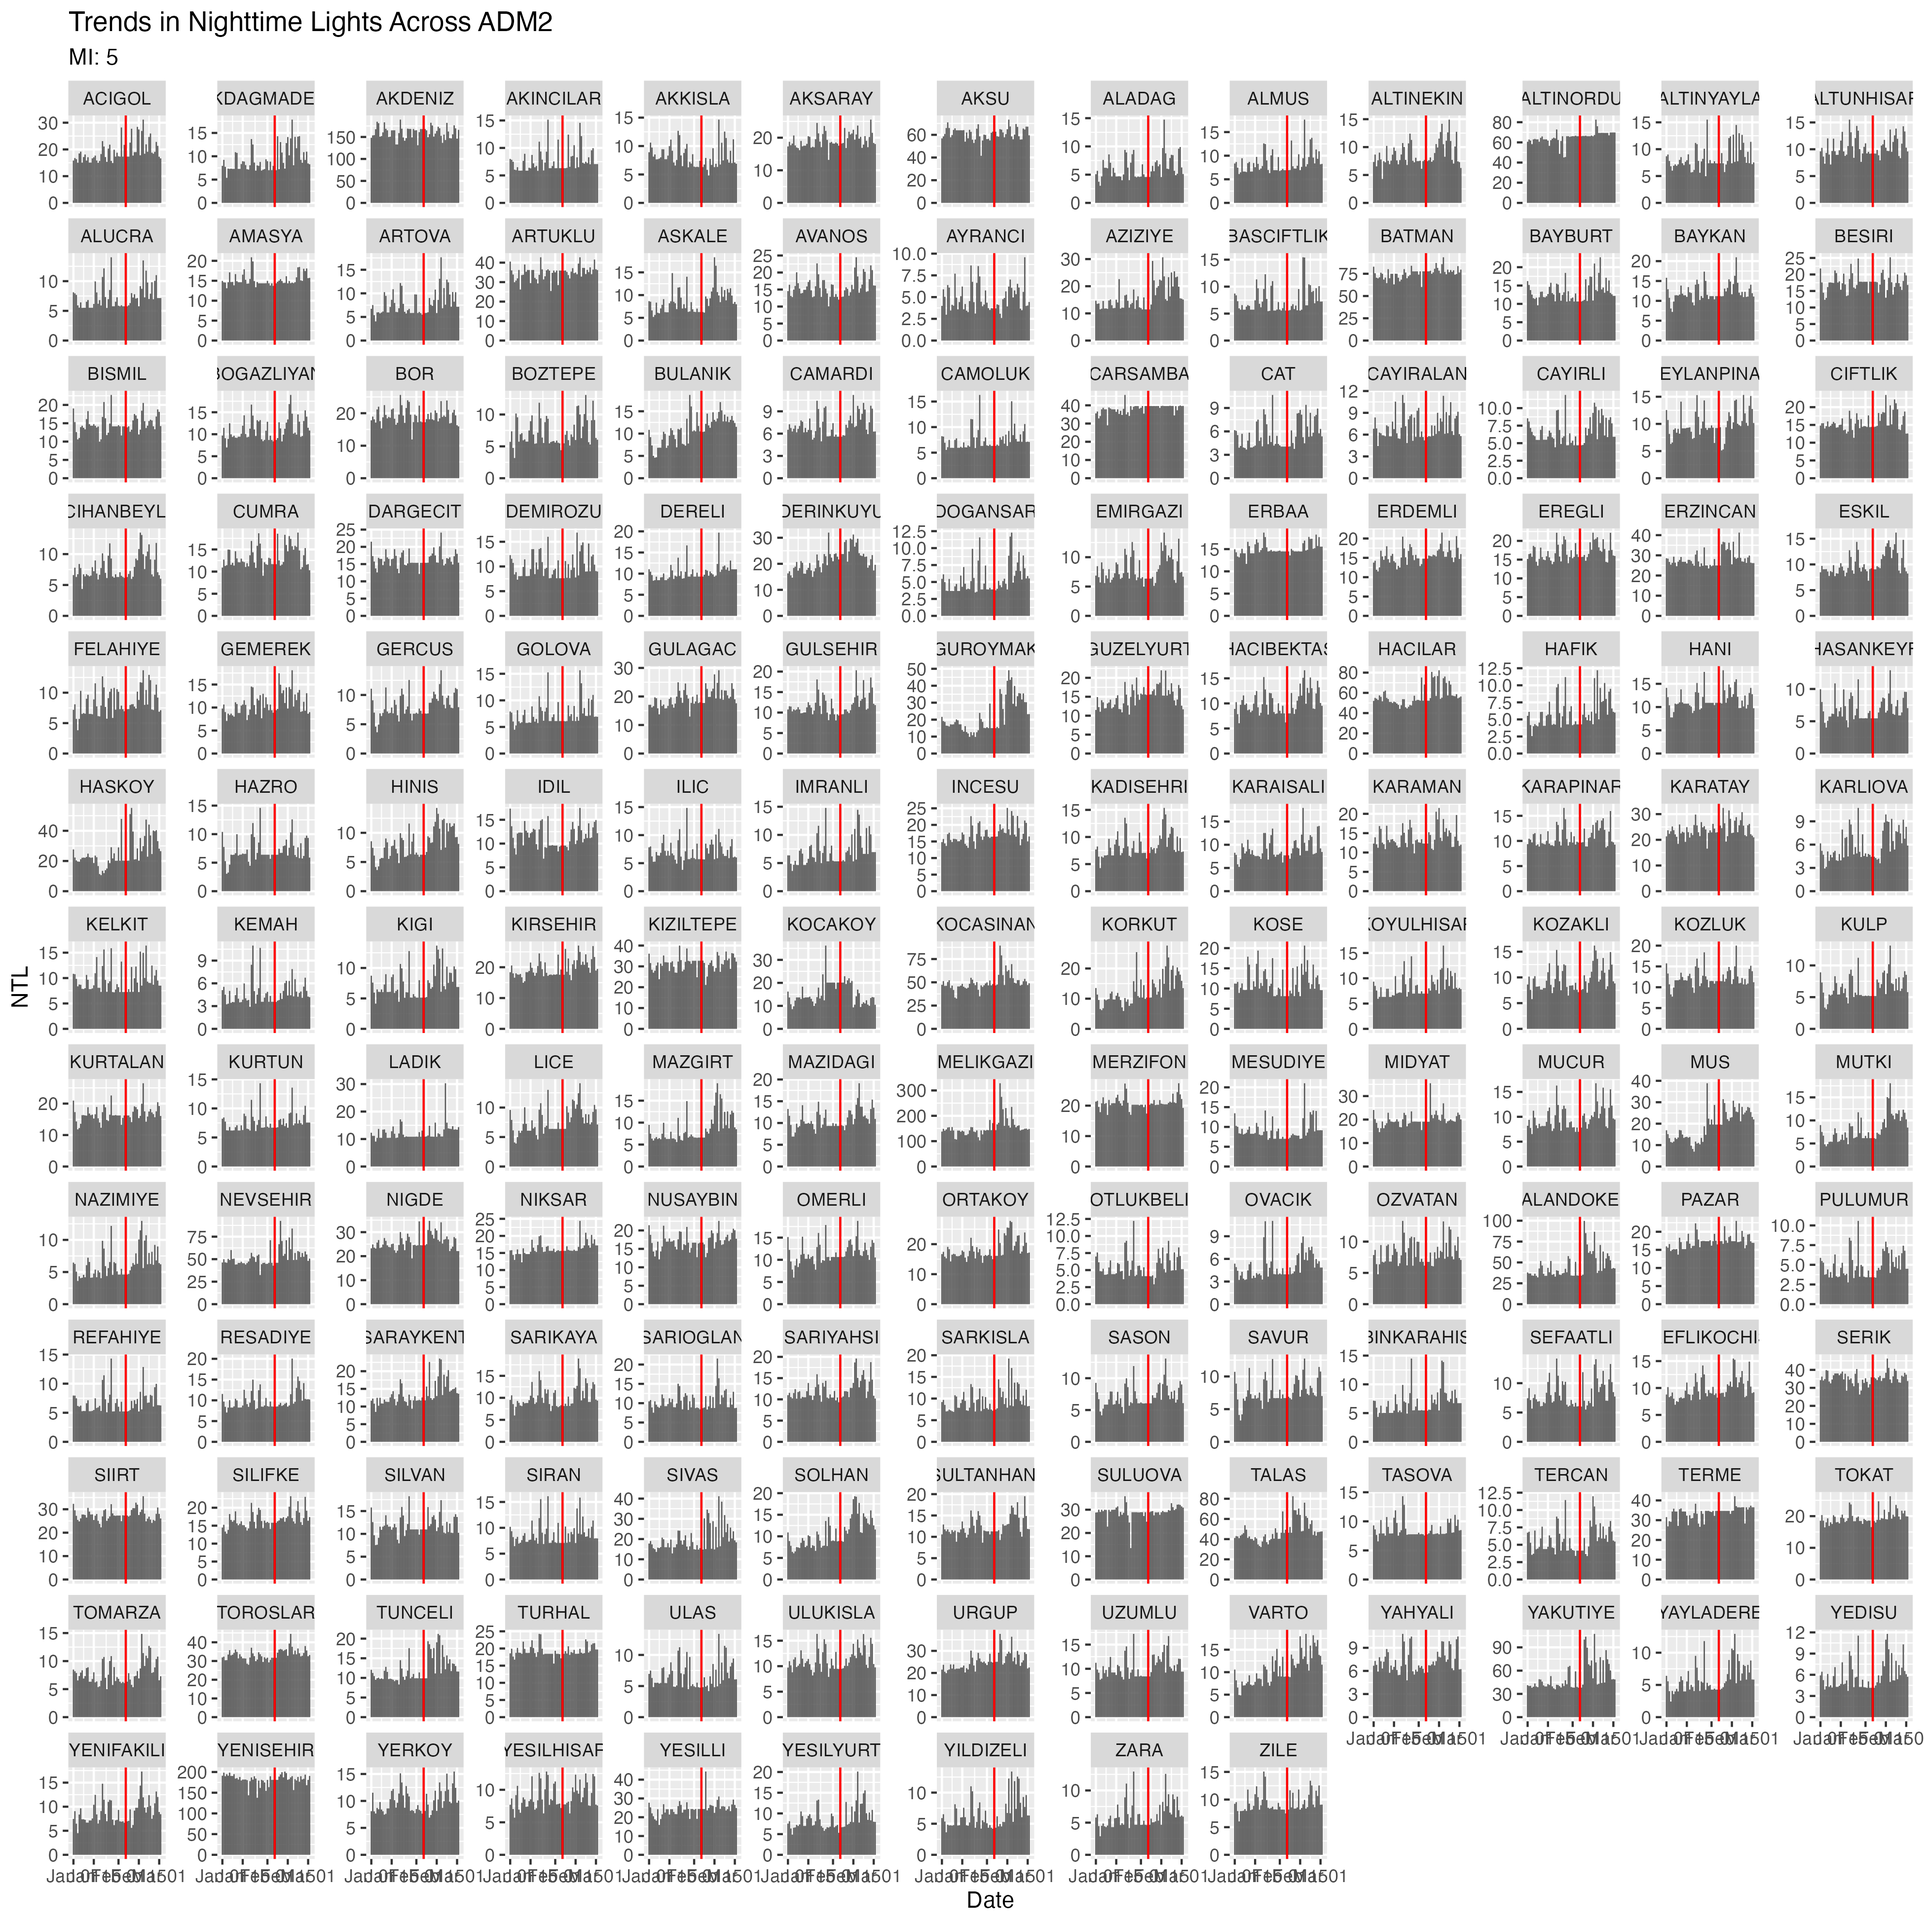
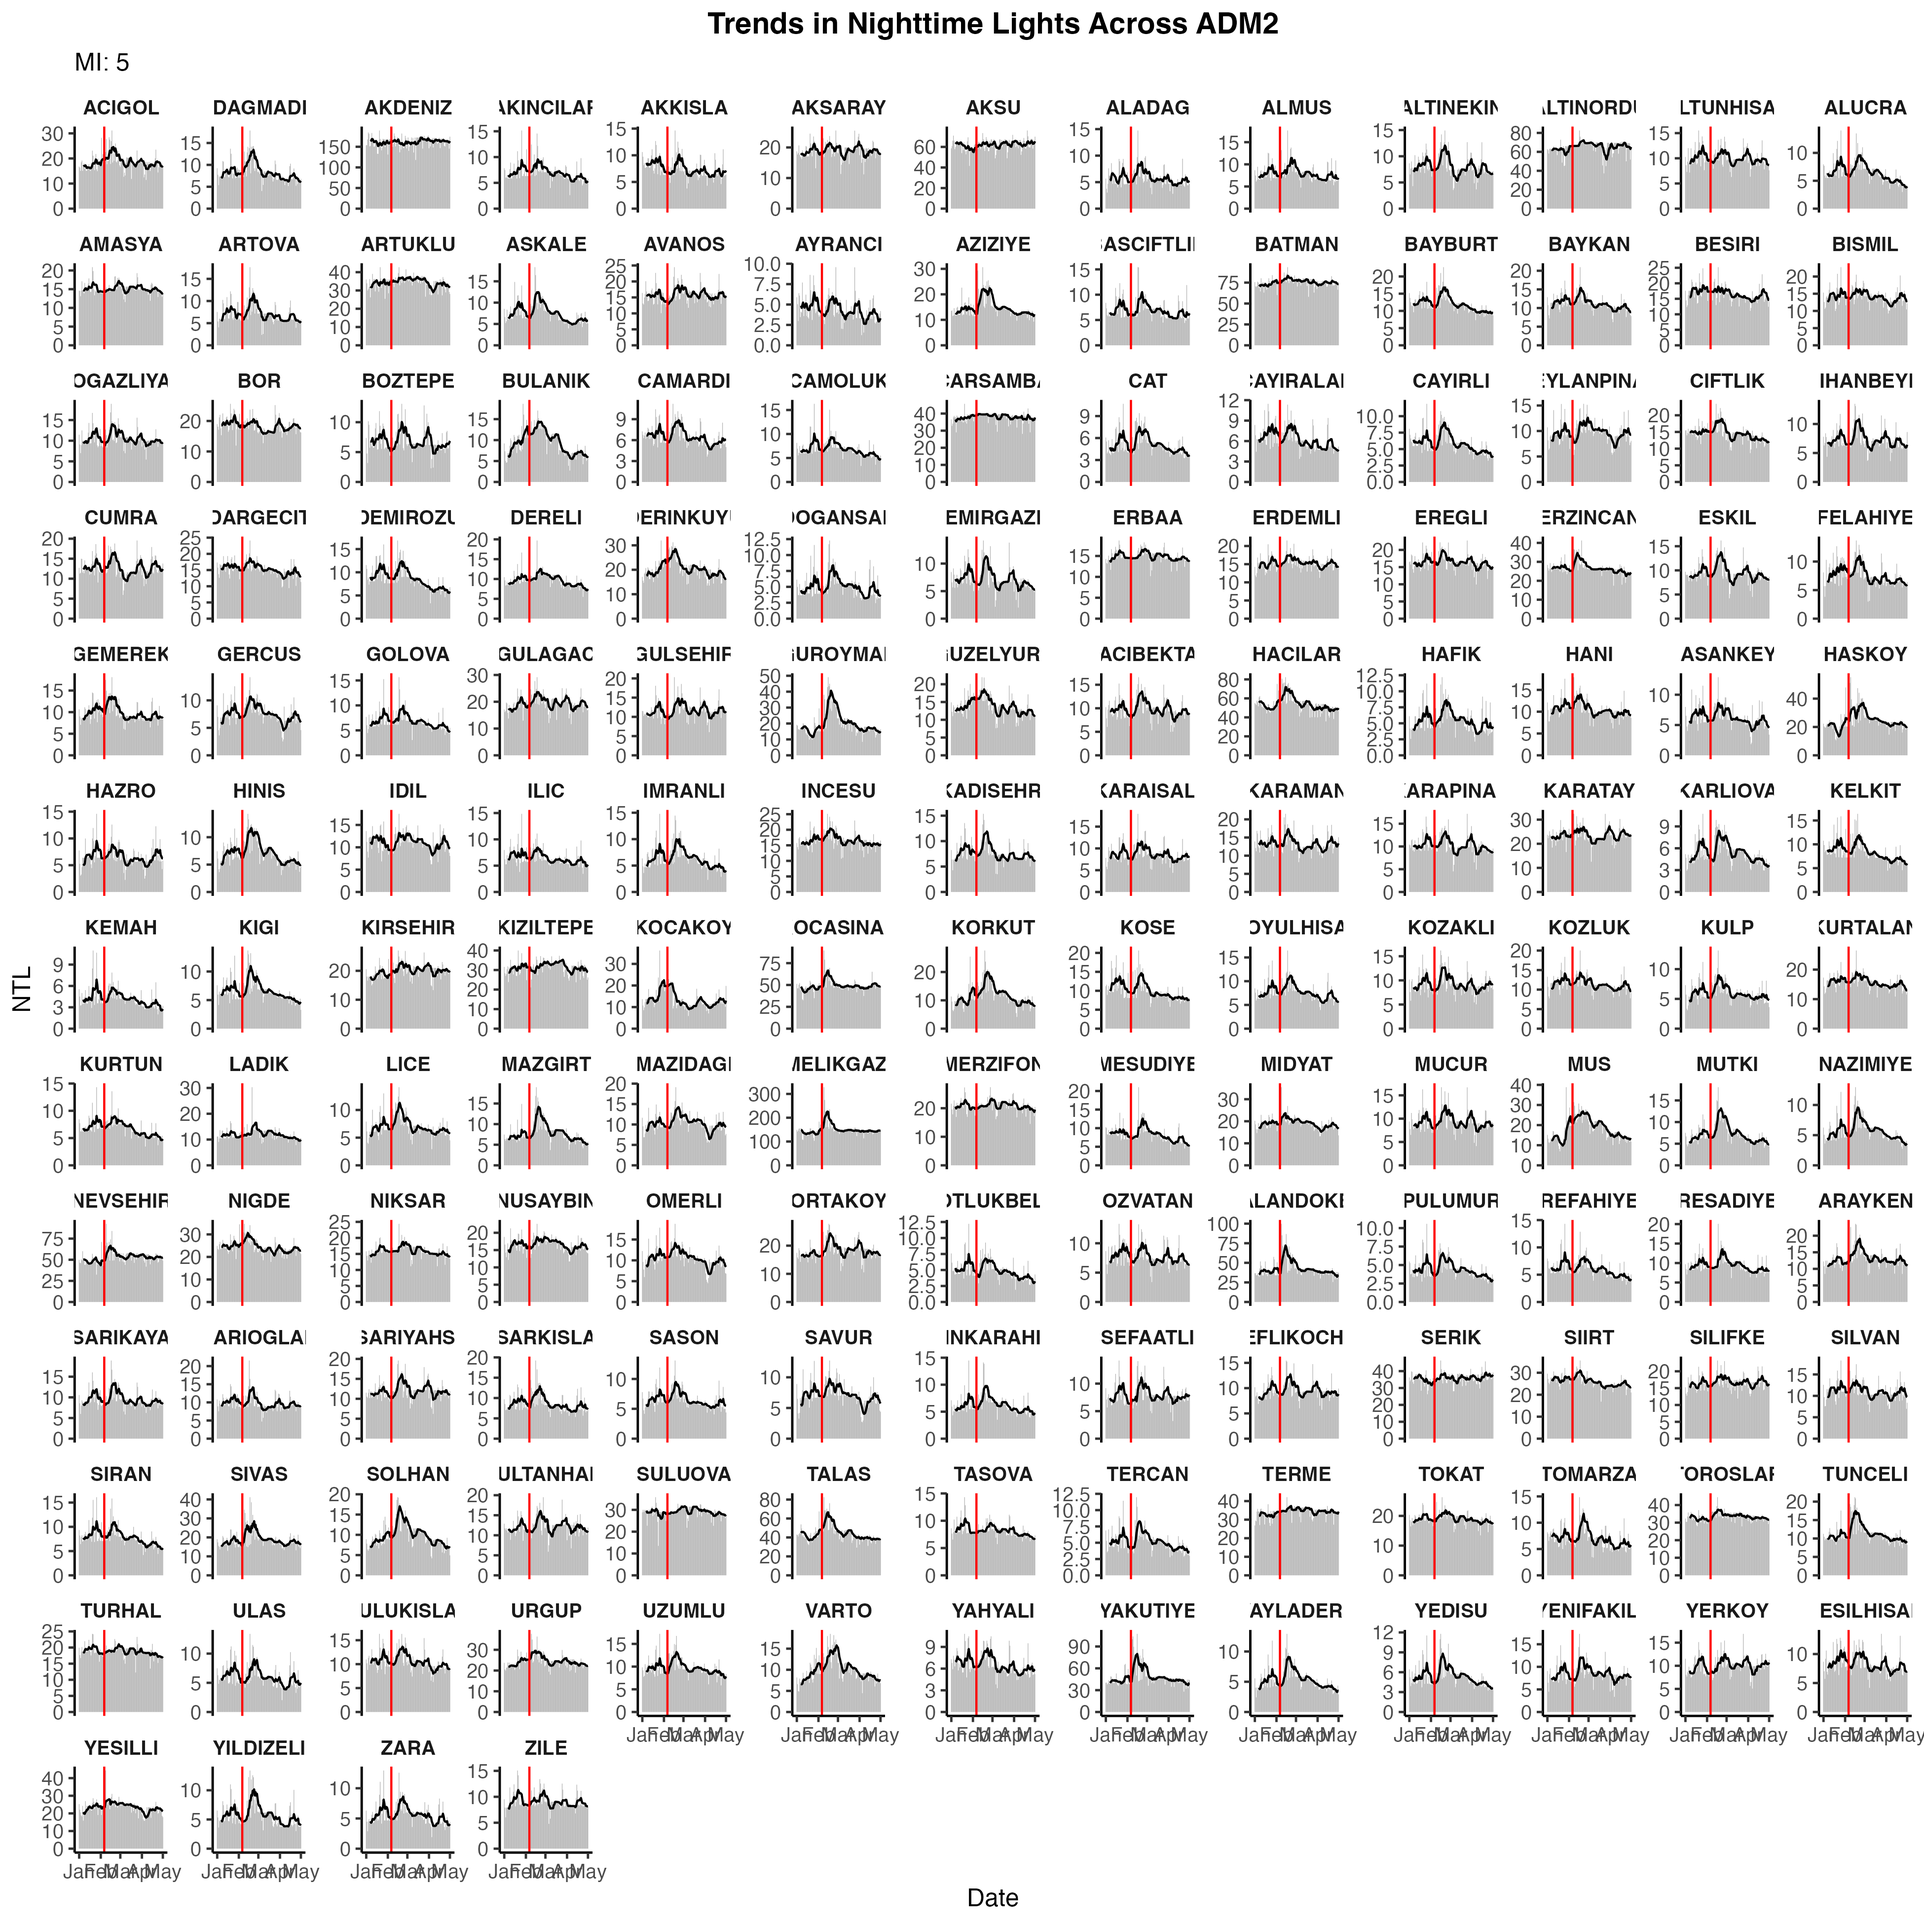
update figures

diff --git a/notebooks/nighttime-lights/README.md b/notebooks/nighttime-lights/README.md
@@ -203,12 +203,14 @@ Change in nighttime lights from two weeks before the earthquake (February 6, 202
 
 ### Trends in Nighttime Lights
 
-The below figure shows daily trends in nighttime lights for administrative units where there was the largest earthquake intensity (a magnitude of 9 or higher). In most locations, nighttime lights remains relatively unchanged. However, Antakya---which had the largest nighttime lights---saw a sharp reduction in nighttime lights.
+The below figures shows daily trends in nighttime lights, averaged within administrative units. The first figures further average nighttime lights by the earthquake intensity experienced by administrative units. The following figures show nighttime lights for individual administrative units. Some locations, such as Antakya (which had the largest nighttime lights), saw a sharp reduction in nighttime lights. Others see large increases in nighttime lights, which likely reflects lights from rescue efforts.
 
 [This script](https://github.com/datapartnership/turkiye-earthquake-impact/blob/ntl/notebooks/nighttime-lights/05_ntl_trends_daily.R) produces the below figure, where the relevant code is also documented below. The code relies on daily nighttime lights data that has been aggregated to the ADM2 level; this dataset is produced using. Before running the below code, the code from [here](https://github.com/datapartnership/turkiye-earthquake-impact/blob/ntl/notebooks/nighttime-lights/_main.R) needs to be run to load packages and define file paths.
 
 ```{r}
+
 #### Load and prepare data
+
 ## Daily NTL at ADM2 Level
 ntl_df <- readRDS(file.path(ntl_bm_dir, "FinalData", "aggregated", "adm2_VNP46A2.Rds"))
 eq_df <- read_csv(file.path(eq_usgs_dir, "turkiye_admn2_earthquake_intensity_max.csv"))
@@ -233,11 +235,50 @@ df %>%
                scales = "free_y") 
 ```
 
+#### Nighttime lights trends: by earthquake intensity (magnitude), averaged across administrative units
+
+```{figure} ../../reports/figures/ntl_trends_daily_adm2_miall_column.png
+---
+align: center
+---
+Trends in nighttime lights. Average across administrative units, by earthquake intensity (magnitude)
+```
+
+```{figure} ../../reports/figures/ntl_trends_daily_adm2_miall_line.png
+---
+align: center
+---
+Trends in nighttime lights. Average across administrative units, by earthquake intensity (magnitude)
+```
+
+#### Nighttime lights trends: by earthquake intensity (magnitude)
+
 ```{figure} ../../reports/figures/ntl_trends_daily_adm2_mi9.png
 ---
 align: center
 ---
 Trends in nighttime lights for administrative units where there was the largest earthquake intensity (a magnitude of 9 or higher)
+```
+
+```{figure} ../../reports/figures/ntl_trends_daily_adm2_mi8.png
+---
+align: center
+---
+Trends in nighttime lights for administrative units where there was the an earthquake magnitude of 8
+```
+
+```{figure} ../../reports/figures/ntl_trends_daily_adm2_mi7.png
+---
+align: center
+---
+Trends in nighttime lights for administrative units where there was the an earthquake magnitude of 7
+```
+
+```{figure} ../../reports/figures/ntl_trends_daily_adm2_mi6.png
+---
+align: center
+---
+Trends in nighttime lights for administrative units where there was the an earthquake magnitude of 6
 ```
 
 ## Limitations
